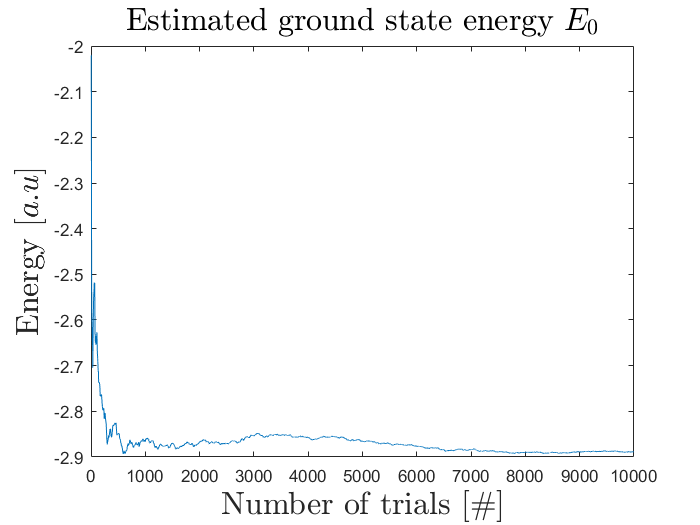
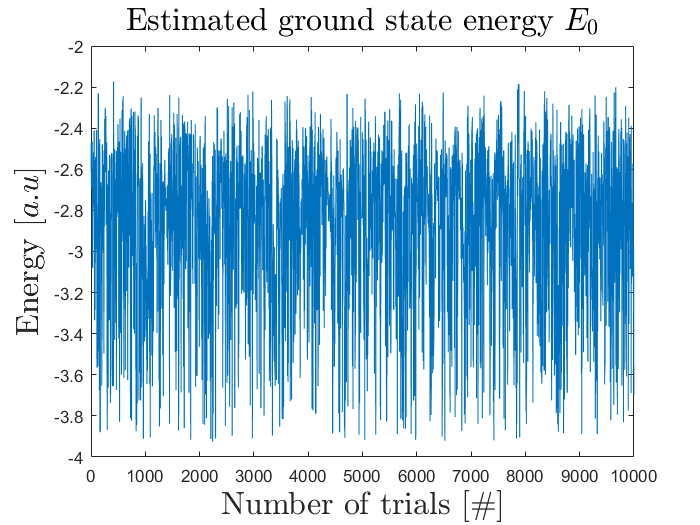
Changed plot in task 2

diff --git a/code/Task2/main.c b/code/Task2/main.c
@@ -34,7 +34,7 @@ int main()
     double e4pi;
     double alpha;
 
-    int nbr_of_trials       =   100000;
+    int nbr_of_trials       =   1000000;
     int nbr_of_block_trials =   1000;
 
     double* energy                = (double*)malloc(nbr_of_trials*sizeof(double));
@@ -55,10 +55,6 @@ int main()
     montecarlo(nbr_of_trials,local_energy, trial_wave, alpha,energy);
     printf("Monte Carlo simulaton done\n\n");
 
-    int nbr_of_trials_eq    =   15000;
-    block_error_estimates(&energy[nbr_of_trials_eq], block_error_estimate, nbr_of_trials-nbr_of_trials_eq, nbr_of_block_trials);
-    double s2= auto_correlation(&energy[nbr_of_trials_eq],nbr_of_trials-nbr_of_trials_eq);
-
     // ------ Print results to file -------
     // ------------------------------------
     FILE* file;
@@ -68,6 +64,11 @@ int main()
         fprintf(file, "%e\n", energy[i] );
     }
     fclose(file);
+
+    int nbr_of_trials_eq    =   15000;
+    block_error_estimates(&energy[nbr_of_trials_eq], block_error_estimate, nbr_of_trials-nbr_of_trials_eq, nbr_of_block_trials);
+    double s2= auto_correlation(&energy[nbr_of_trials_eq],nbr_of_trials-nbr_of_trials_eq);
+
 
     file = fopen("block_length.dat","w");
     for (int i = 0; i < nbr_of_block_trials; i++)
@@ -139,8 +140,13 @@ void  montecarlo(int N,double (*local_e)(double*,double*,double), double (*f)(do
     double r_1[nbr_of_dimensions] = { 0 };
     double r_2[nbr_of_dimensions] = { 0 };
 
-    r_1[1] = 0.1;
-    r_2[1] = -0.1;
+    // Start far away from probable state
+    r_1[0] = 1;
+    r_1[1] = 0;
+    r_1[2] = 0;
+    r_2[0] = -1;
+    r_2[1] = 0;
+    r_2[2] = 0;
 
     for (int i = 0; i < N; i++)
     {

diff --git a/code/Task2/plot_energies.m b/code/Task2/plot_energies.m
@@ -2,10 +2,7 @@ clear all, close all, clc
 
 energies=importdata('energy.dat');
 
-x=(1:length(energies))';
-mean = cumsum(energies)./x;
-
-plot(mean(1:10000))
+plot(energies(1:10000))
 
 ylabel('Energy [$a.u$]','interpreter','latex','fontsize',19)
 xlabel('Number of trials [$\#$]','interpreter','latex','fontsize',19)
